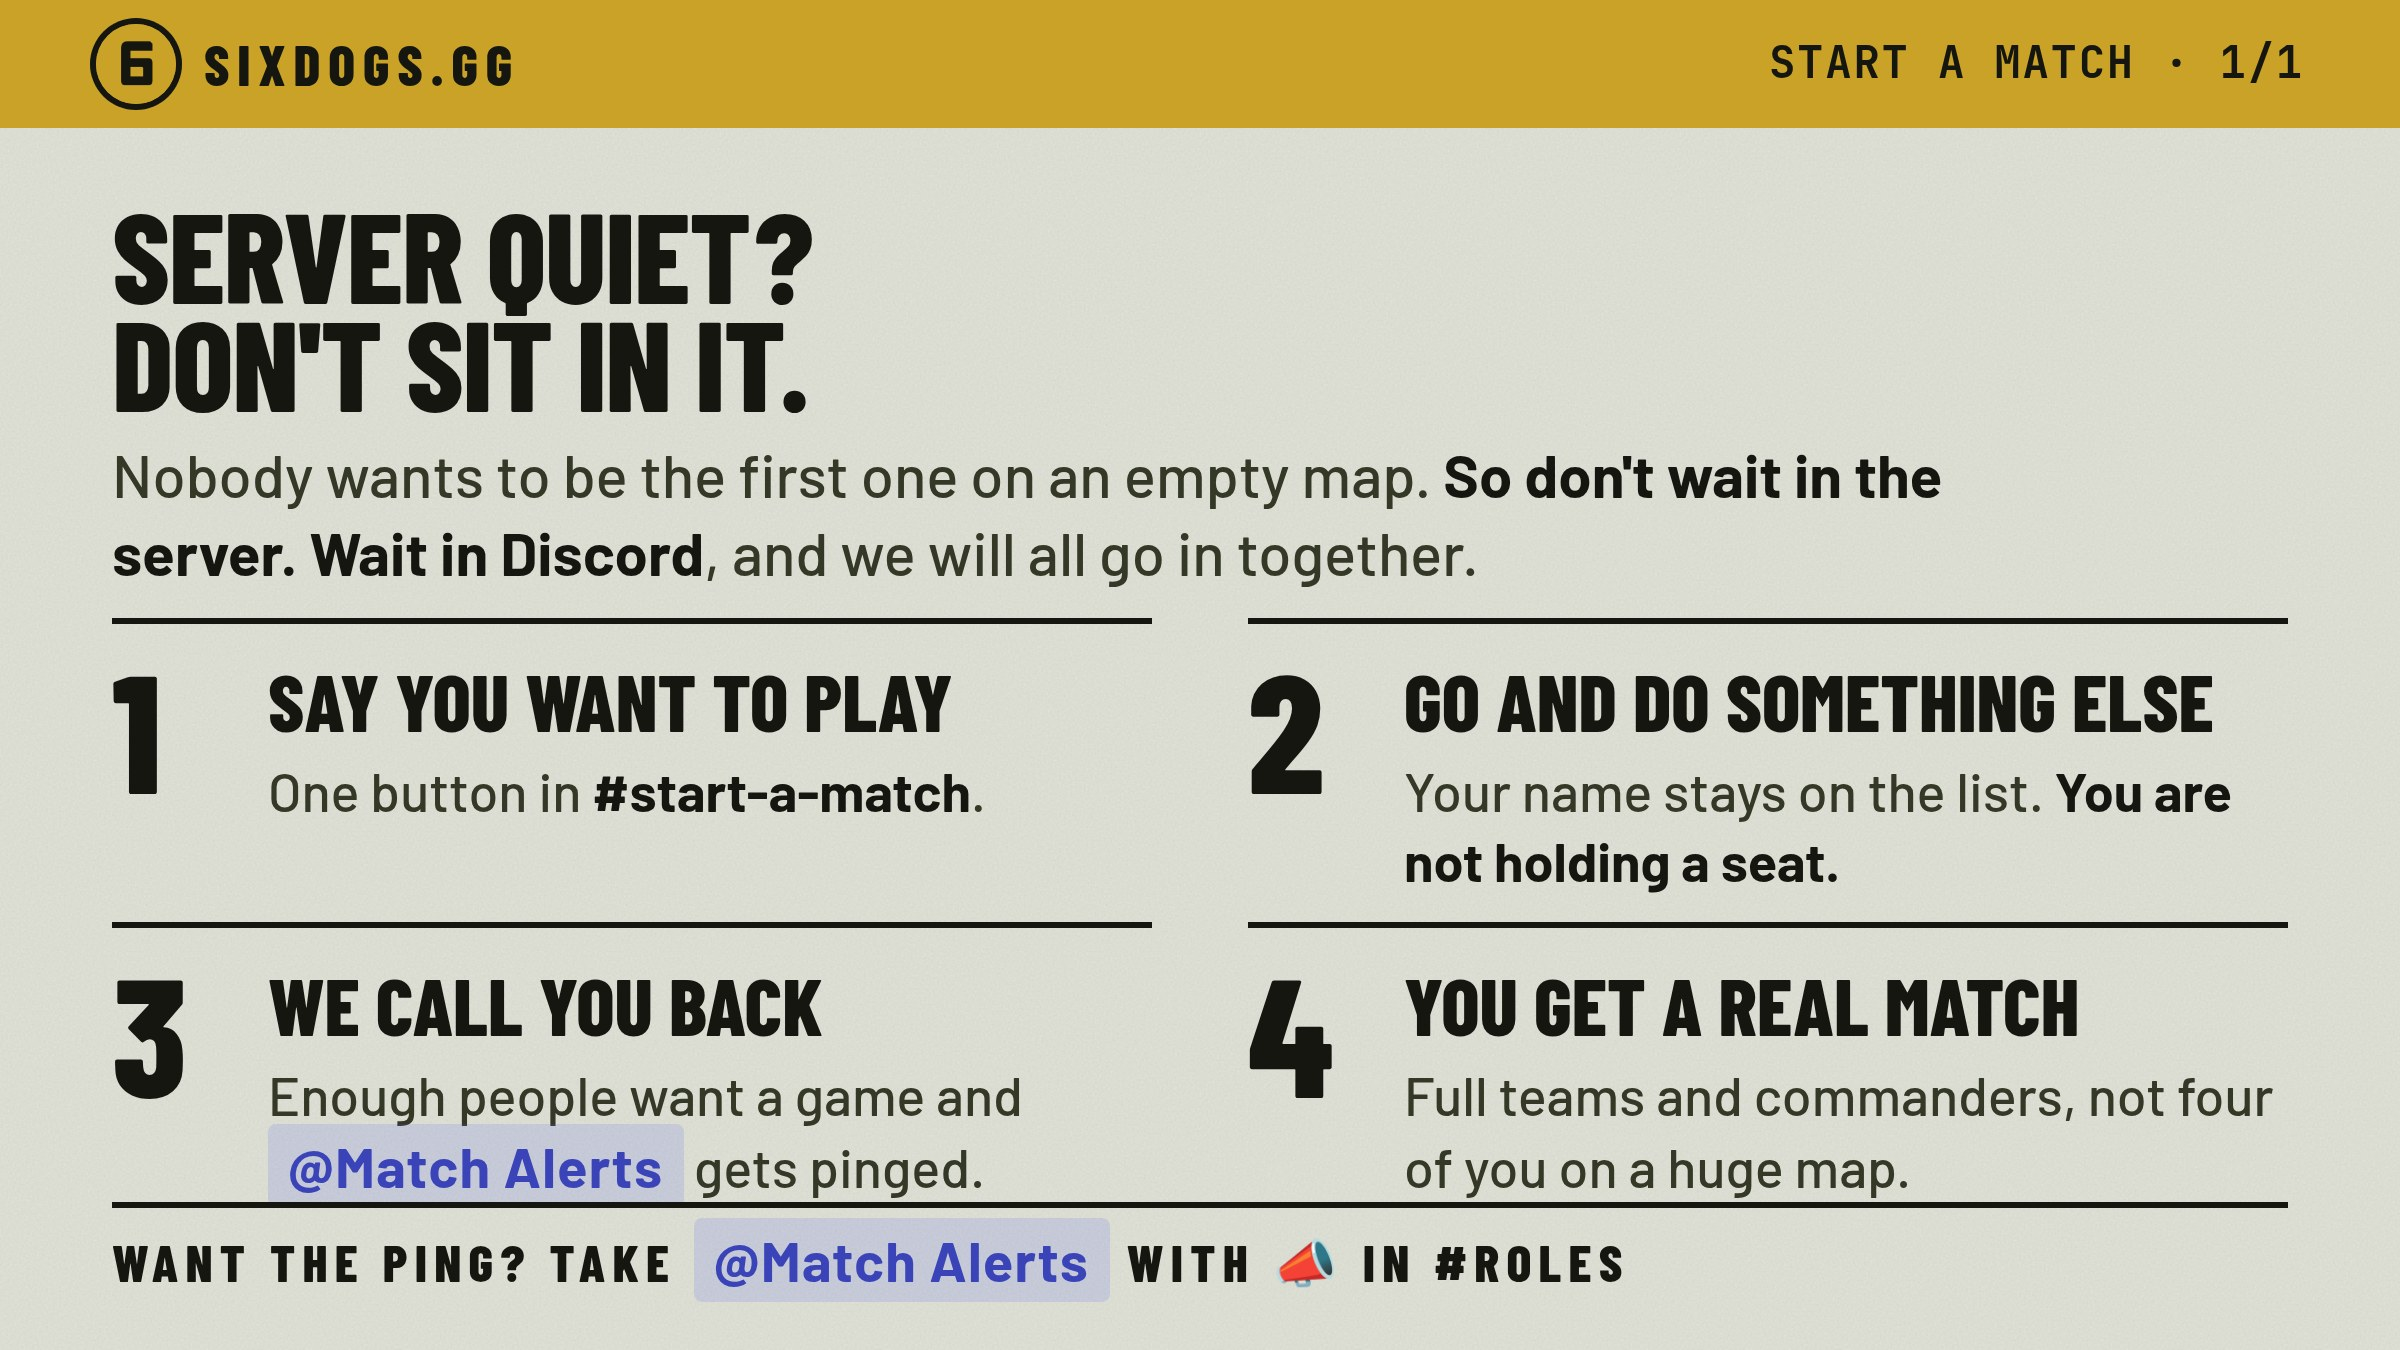
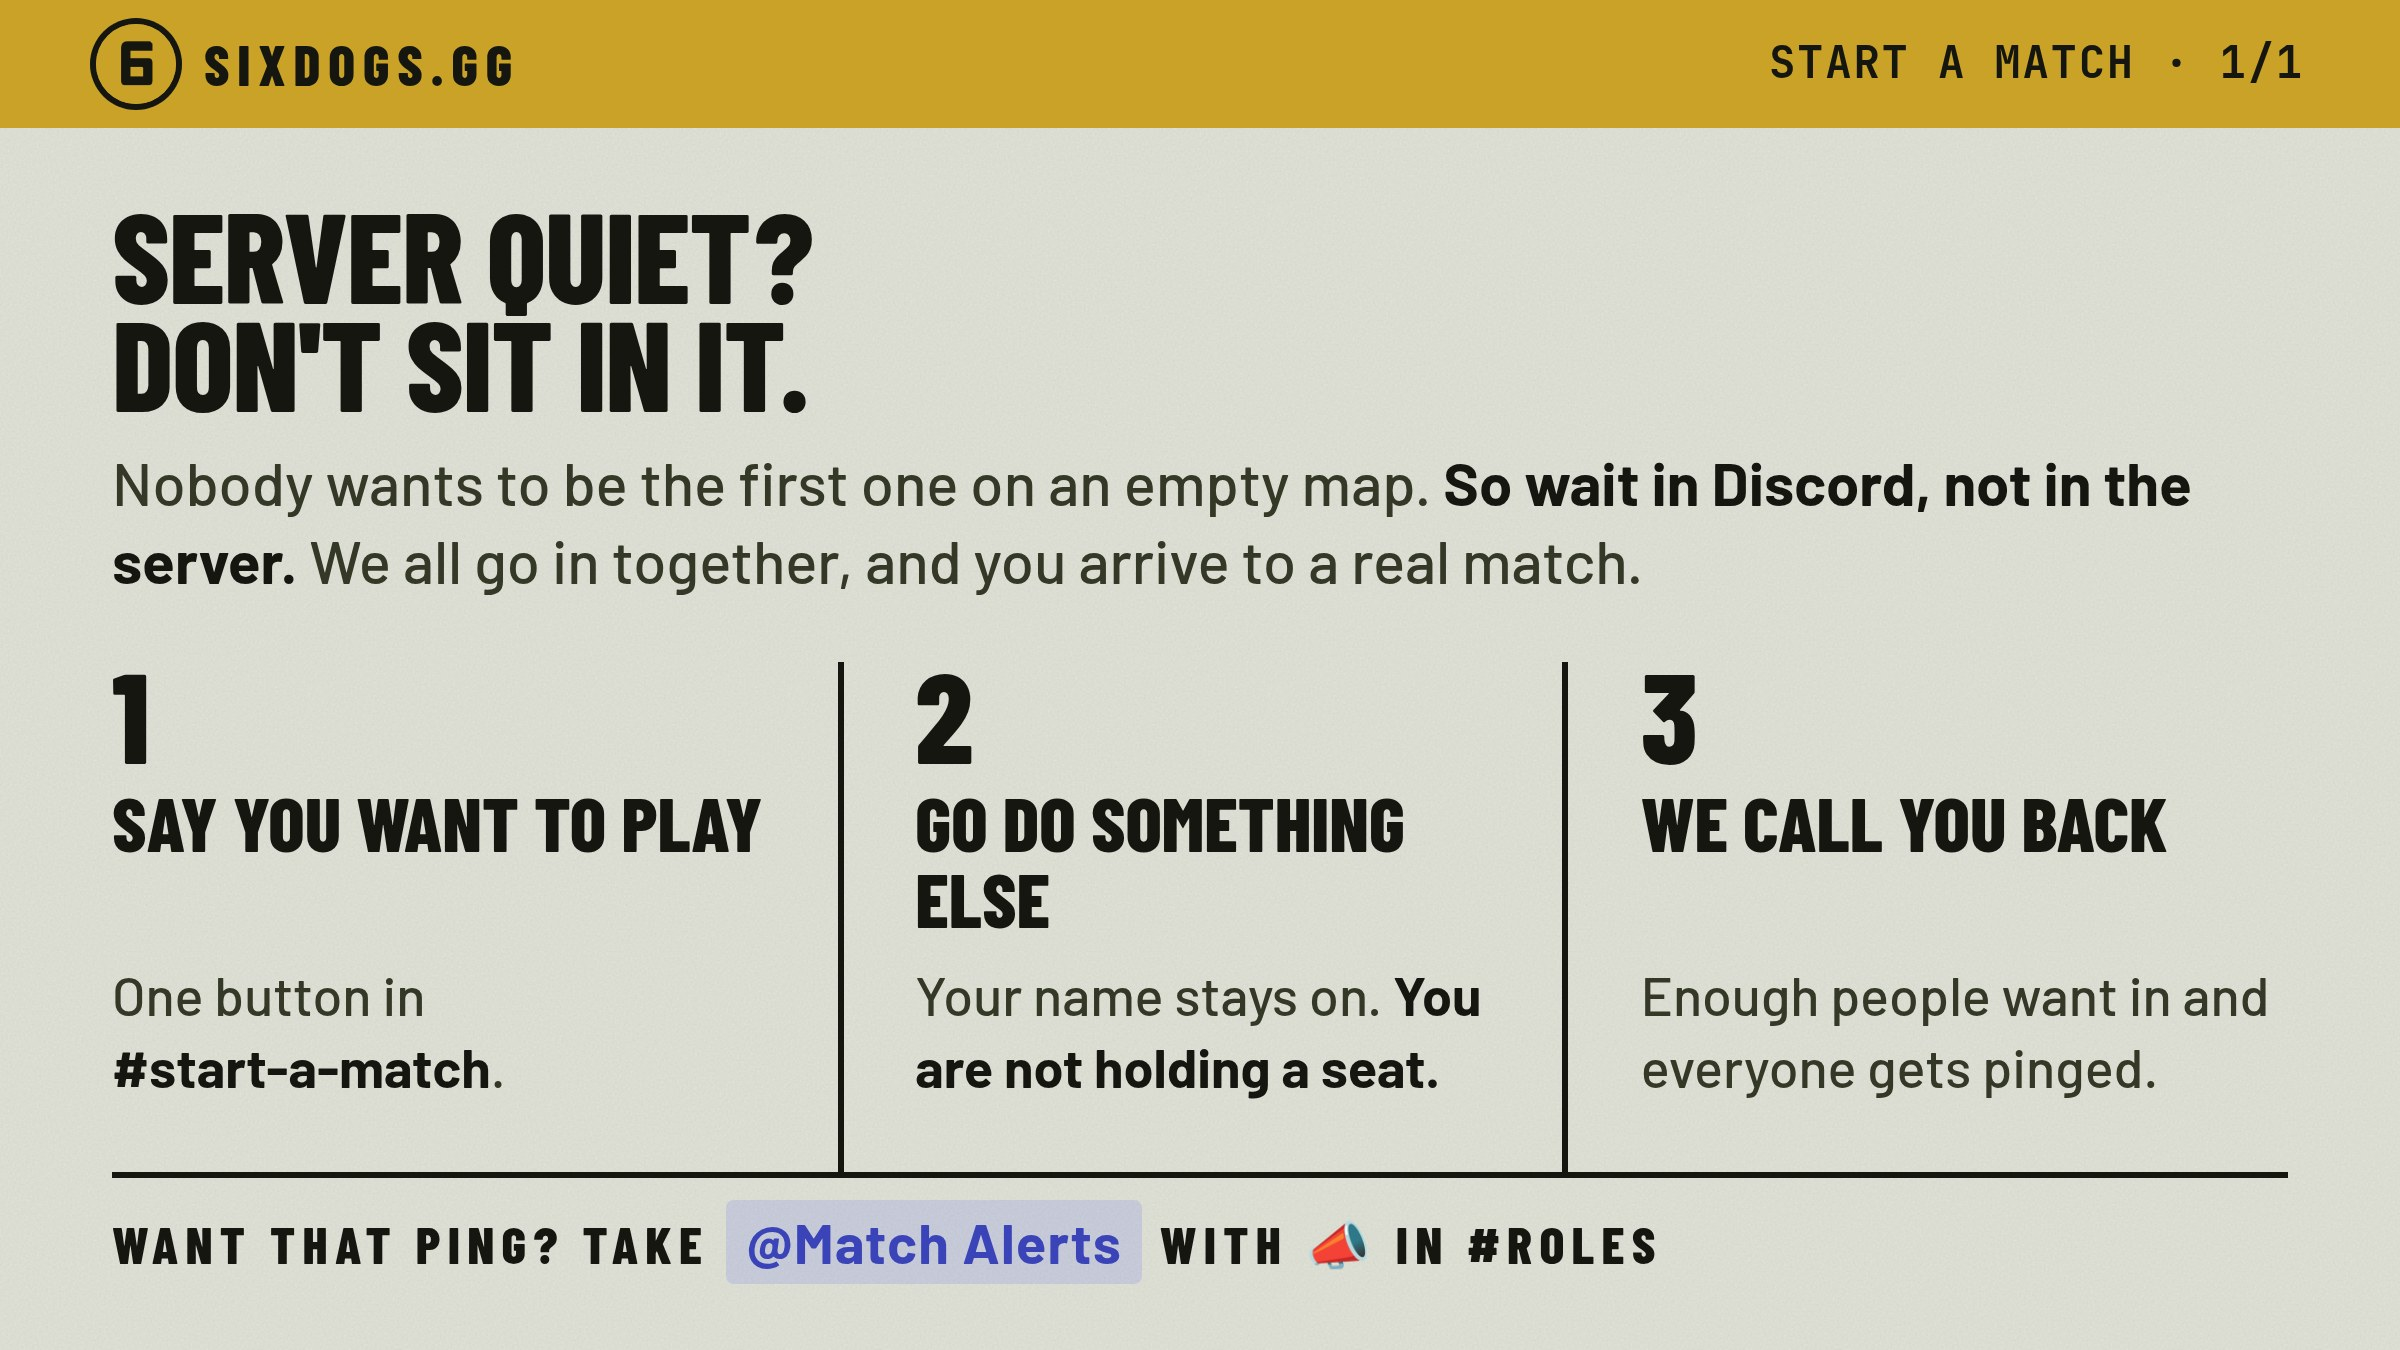
Give the start-a-match panel room to breathe
Four boxes in two rows wanted 544px in a body that is 535, so the bottom
row sat on the footer rule with nothing between them. Measuring rather
than guessing showed the whole shape was wrong, not the type sizes:
three steps across one row is the flow anyway (say, go away, get called
back), and `.cols` takes flex:1 so the height left over becomes space
above the footer instead of a fourth box. The fourth point was a benefit
rather than a step, so it moved up into the lede.

Every column now clears the footer by 35px and the three paragraphs
start on the same line. Two smaller fixes on the way there: #start-a-match
was breaking across lines, which reads as two different things, and
column 2 of a three-column row is the narrowest because it has padding on
both sides while the outer two do not, so its heading wrapped first and
dropped its paragraph out of line. Every heading now reserves two lines.

measure_panels.py makes this checkable instead of a matter of taste. It
reports overflow and the gap above the footer for each column, and exits
non-zero on either. The panel is overflow:hidden, so content that does
not fit is not flagged or wrapped, it is just gone from the bottom of the
picture, and the only way to notice is to look. Ran it over the existing
verify and how-to-play guides too: all eleven panels are fine.

Claude-Session: https://claude.ai/code/session_01Ntod5oCBDkdPdufsC4KjHU

Changed region(s): [[0.0312, 0.4978, 0.9375, 0.9644], [0.0312, 0.3422, 0.9375, 0.4667]]

diff --git a/design/verify-guide/start-a-match-panels.html b/design/verify-guide/start-a-match-panels.html
@@ -1,10 +1,9 @@
 <!doctype html><html lang="en"><head><meta charset="utf-8"><title>SIXDOGS start a match</title><link rel="stylesheet" href="panels.css"></head><body><svg width="0" height="0" style="position:absolute"><filter id="ink" x="-5%" y="-5%" width="110%" height="110%"><feTurbulence type="fractalNoise" baseFrequency=".09" numOctaves="2" seed="7" result="t"/><feDisplacementMap in="SourceGraphic" in2="t" scale="5" result="d"/><feTurbulence type="fractalNoise" baseFrequency=".75" numOctaves="1" seed="3" result="g"/><feColorMatrix in="g" type="matrix" values="0 0 0 0 0  0 0 0 0 0  0 0 0 0 0  0 0 0 -2.2 1.9" result="m"/><feComposite in="d" in2="m" operator="in"/></filter></svg><section class="panel" id="s1"><div class="strip"><div class="brand"><img src="avatar.png" alt="">SIXDOGS.GG</div><div class="ref">START A MATCH · 1/1</div></div><div class="body">
   <h1 style="font-size:64px"><span>Server quiet?</span><span>Don't sit in it.</span></h1>
-  <p class="lede" style="font-size:30px;margin-top:10px;max-width:1010px">Nobody wants to be the first one on an empty map. <b>So don't wait in the server. Wait in Discord</b>, and we will all go in together.</p>
-  <div class="grid4" style="margin-top:12px;row-gap:12px">
-    <div><div class="n">1</div><div><h3 style="font-size:40px">Say you want to play</h3><p style="font-size:27px">One button in <b>#start-a-match</b>.</p></div></div>
-    <div><div class="n">2</div><div><h3 style="font-size:40px">Go and do something else</h3><p style="font-size:27px">Your name stays on the list. <b>You are not holding a seat.</b></p></div></div>
-    <div><div class="n">3</div><div><h3 style="font-size:40px">We call you back</h3><p style="font-size:27px">Enough people want a game and <span class="mention">@Match Alerts</span> gets pinged.</p></div></div>
-    <div><div class="n">4</div><div><h3 style="font-size:40px">You get a real match</h3><p style="font-size:27px">Full teams and commanders, not four of you on a huge map.</p></div></div>
+  <p class="lede" style="font-size:30px;margin-top:14px;max-width:1088px">Nobody wants to be the first one on an empty map. <b>So wait in Discord, not in the server.</b> We all go in together, and you arrive to a real match.</p>
+  <div class="cols three" style="margin-top:30px">
+    <div><div class="num" style="font-size:64px;margin-bottom:10px">1</div><h3 style="font-size:38px;min-height:76px">Say you want to play</h3><p style="font-size:27px;margin-top:10px">One button in <b style="white-space:nowrap">#start-a-match</b>.</p></div>
+    <div><div class="num" style="font-size:64px;margin-bottom:10px">2</div><h3 style="font-size:38px;min-height:76px">Go do something else</h3><p style="font-size:27px;margin-top:10px">Your name stays on. <b>You are not holding a seat.</b></p></div>
+    <div><div class="num" style="font-size:64px;margin-bottom:10px">3</div><h3 style="font-size:38px;min-height:76px">We call you back</h3><p style="font-size:27px;margin-top:10px">Enough people want in and everyone gets pinged.</p></div>
   </div>
-  <div class="foot" style="padding-top:12px"><span>Want the ping? Take <span class="mention">@Match Alerts</span> with 📣 in #roles</span></div></div></section></body></html>
+  <div class="foot"><span>Want that ping? Take <span class="mention">@Match Alerts</span> with 📣 in #roles</span></div></div></section></body></html>

diff --git a/design/verify-guide/build_panels.py b/design/verify-guide/build_panels.py
@@ -91,19 +91,21 @@ open('how-to-play-panels.html','w').write(page('SIXDOGS how we play', h))
 # the real count, so the picture explains the idea and leaves the arithmetic to
 # the thing that can keep up.
 S = 'START A MATCH'
-# The body is only about 535px tall once the strip and padding are taken off, so
-# the hero type is dialled down and every step is a line or two. A first draft
-# with a full-size h1 and a three-line lede pushed steps 3 and 4 off the bottom.
+# Measured, not guessed: the body is 675 - 64 (strip) - 76 (padding) = 535px.
+# Four steps in two rows needed 544 and left the bottom row sitting on the
+# footer rule. Three steps across one row is the flow anyway (say / go away /
+# get called back), and `.cols` takes flex:1 so the leftover height becomes
+# breathing room above the footer instead of being spent on a fourth box.
+# The fourth point was a benefit rather than a step, so it moved into the lede.
 s = [
 panel('s1', S, 1, 1, '''
   <h1 style="font-size:64px"><span>Server quiet?</span><span>Don\'t sit in it.</span></h1>
-  <p class="lede" style="font-size:30px;margin-top:10px;max-width:1010px">Nobody wants to be the first one on an empty map. <b>So don\'t wait in the server. Wait in Discord</b>, and we will all go in together.</p>
-  <div class="grid4" style="margin-top:12px;row-gap:12px">
-    <div><div class="n">1</div><div><h3 style="font-size:40px">Say you want to play</h3><p style="font-size:27px">One button in <b>#start-a-match</b>.</p></div></div>
-    <div><div class="n">2</div><div><h3 style="font-size:40px">Go and do something else</h3><p style="font-size:27px">Your name stays on the list. <b>You are not holding a seat.</b></p></div></div>
-    <div><div class="n">3</div><div><h3 style="font-size:40px">We call you back</h3><p style="font-size:27px">Enough people want a game and <span class="mention">@Match Alerts</span> gets pinged.</p></div></div>
-    <div><div class="n">4</div><div><h3 style="font-size:40px">You get a real match</h3><p style="font-size:27px">Full teams and commanders, not four of you on a huge map.</p></div></div>
+  <p class="lede" style="font-size:30px;margin-top:14px;max-width:1088px">Nobody wants to be the first one on an empty map. <b>So wait in Discord, not in the server.</b> We all go in together, and you arrive to a real match.</p>
+  <div class="cols three" style="margin-top:30px">
+    <div><div class="num" style="font-size:64px;margin-bottom:10px">1</div><h3 style="font-size:38px;min-height:76px">Say you want to play</h3><p style="font-size:27px;margin-top:10px">One button in <b style="white-space:nowrap">#start-a-match</b>.</p></div>
+    <div><div class="num" style="font-size:64px;margin-bottom:10px">2</div><h3 style="font-size:38px;min-height:76px">Go do something else</h3><p style="font-size:27px;margin-top:10px">Your name stays on. <b>You are not holding a seat.</b></p></div>
+    <div><div class="num" style="font-size:64px;margin-bottom:10px">3</div><h3 style="font-size:38px;min-height:76px">We call you back</h3><p style="font-size:27px;margin-top:10px">Enough people want in and everyone gets pinged.</p></div>
   </div>
-  <div class="foot" style="padding-top:12px"><span>Want the ping? Take <span class="mention">@Match Alerts</span> with 📣 in #roles</span></div>'''),
+  <div class="foot"><span>Want that ping? Take <span class="mention">@Match Alerts</span> with 📣 in #roles</span></div>'''),
 ]
 open('start-a-match-panels.html','w').write(page('SIXDOGS start a match', s))

diff --git a/design/verify-guide/measure_panels.py b/design/verify-guide/measure_panels.py
@@ -1,0 +1,56 @@
+# Does everything fit? Run this before rendering a panel.
+#
+# A panel is a fixed 1200x675 box with overflow:hidden, so content that doesn't
+# fit is not flagged, wrapped or scrolled. It is silently cut off the bottom of
+# the picture, and the only way to notice is to look at the finished image. A
+# first draft of the start-a-match panel lost two of its four steps that way.
+#
+#   python3 measure_panels.py start-a-match-panels
+#
+# Reports, per panel: how much the content overflows (0 is what you want), and
+# the gap between the last thing in each column and the footer rule. A gap near
+# zero is the "crammed" look even when nothing is technically cut off.
+import sys, os, glob
+from playwright.sync_api import sync_playwright
+
+here = os.path.dirname(os.path.abspath(__file__))
+
+
+def chrome():
+    if os.environ.get('PW_CHROME'):
+        return os.environ['PW_CHROME']
+    found = sorted(glob.glob('/opt/pw-browsers/chromium-*/chrome-linux/chrome'))
+    return found[-1] if found else None
+
+
+with sync_playwright() as p:
+    exe = chrome()
+    b = p.chromium.launch(args=["--allow-file-access-from-files"],
+                          **({'executable_path': exe} if exe else {}))
+    bad = 0
+    for name in sys.argv[1:]:
+        pg = b.new_page(viewport={"width": 1240, "height": 900})
+        pg.goto(f"file://{here}/{name}.html")
+        pg.wait_for_timeout(600)
+        for el in pg.locator(".panel").all():
+            pid = el.get_attribute("id")
+            r = pg.evaluate("""(id) => {
+              const panel = document.getElementById(id);
+              const body = panel.querySelector('.body');
+              const foot = panel.querySelector('.foot');
+              const cols = panel.querySelectorAll('.cols > div, .grid4 > div');
+              const bottom = foot ? foot.getBoundingClientRect().top
+                                  : body.getBoundingClientRect().bottom;
+              return {
+                overflow: body.scrollHeight - body.clientHeight,
+                gaps: [...cols].map((c) => Math.round(
+                  bottom - c.lastElementChild.getBoundingClientRect().bottom)),
+              };
+            }""", pid)
+            tight = r['overflow'] > 0 or any(g < 16 for g in r['gaps'])
+            if tight:
+                bad += 1
+            print(f"{'TIGHT' if tight else 'ok   '} {pid}  overflow={r['overflow']}  gaps={r['gaps']}")
+        pg.close()
+    b.close()
+    sys.exit(1 if bad else 0)

diff --git a/CLAUDE.md b/CLAUDE.md
@@ -189,9 +189,21 @@ size; lines above the first card go before it). A post = all the bot's non-menu 
 channel, oldest first; same count -> edit in place, fewer -> delete the extras at the end, more -> delete and repost.
 Guide panels are 1200x675 (2x) in the briefing style: design/verify-guide/build_panels.py +
 panels.css, rendered by render_panels.py, then saved as JPEG q88 into content/. The BODY is only
-about 535px tall once the gold strip and padding are off, and nothing warns you when content
-overflows: it is simply cut off the bottom of the picture. Always look at the rendered PNG before
-shipping one. A first draft of the start-a-match panel lost two of its four steps that way.
+about 535px tall once the gold strip and padding are off, and the panel is `overflow:hidden`, so
+content that does not fit is not flagged or wrapped: it is silently cut off the bottom of the
+picture. A first draft of the start-a-match panel lost two of its four steps that way.
+
+**Run `python3 measure_panels.py <page>` before rendering.** It reports the overflow (0 is what
+you want) and the gap between each column and the footer rule, and exits non-zero on either
+problem. A gap near zero is the crammed look even when nothing is technically cut off, which is
+what the owner saw on the second draft of start-a-match. Measure, then look at the PNG; guessing
+at type sizes costs several rounds.
+
+Two layout things that came out of that panel. Four boxes in two rows needs 544px and does not
+fit; three across one row does, and `.cols` has `flex:1` so the leftover height becomes breathing
+room above the footer. And column 2 of a three-column row is the narrowest (it has padding on
+both sides, the outer two do not), so its heading wraps first and drops its paragraph out of line
+with the others: give every heading the same `min-height` when that happens.
 `render_panels.py` finds the Chromium already on the machine (newest `/opt/pw-browsers/chromium-*`,
 or `PW_CHROME`): Playwright pins an exact revision and otherwise tells you to download a second
 copy of a browser that is already there.
